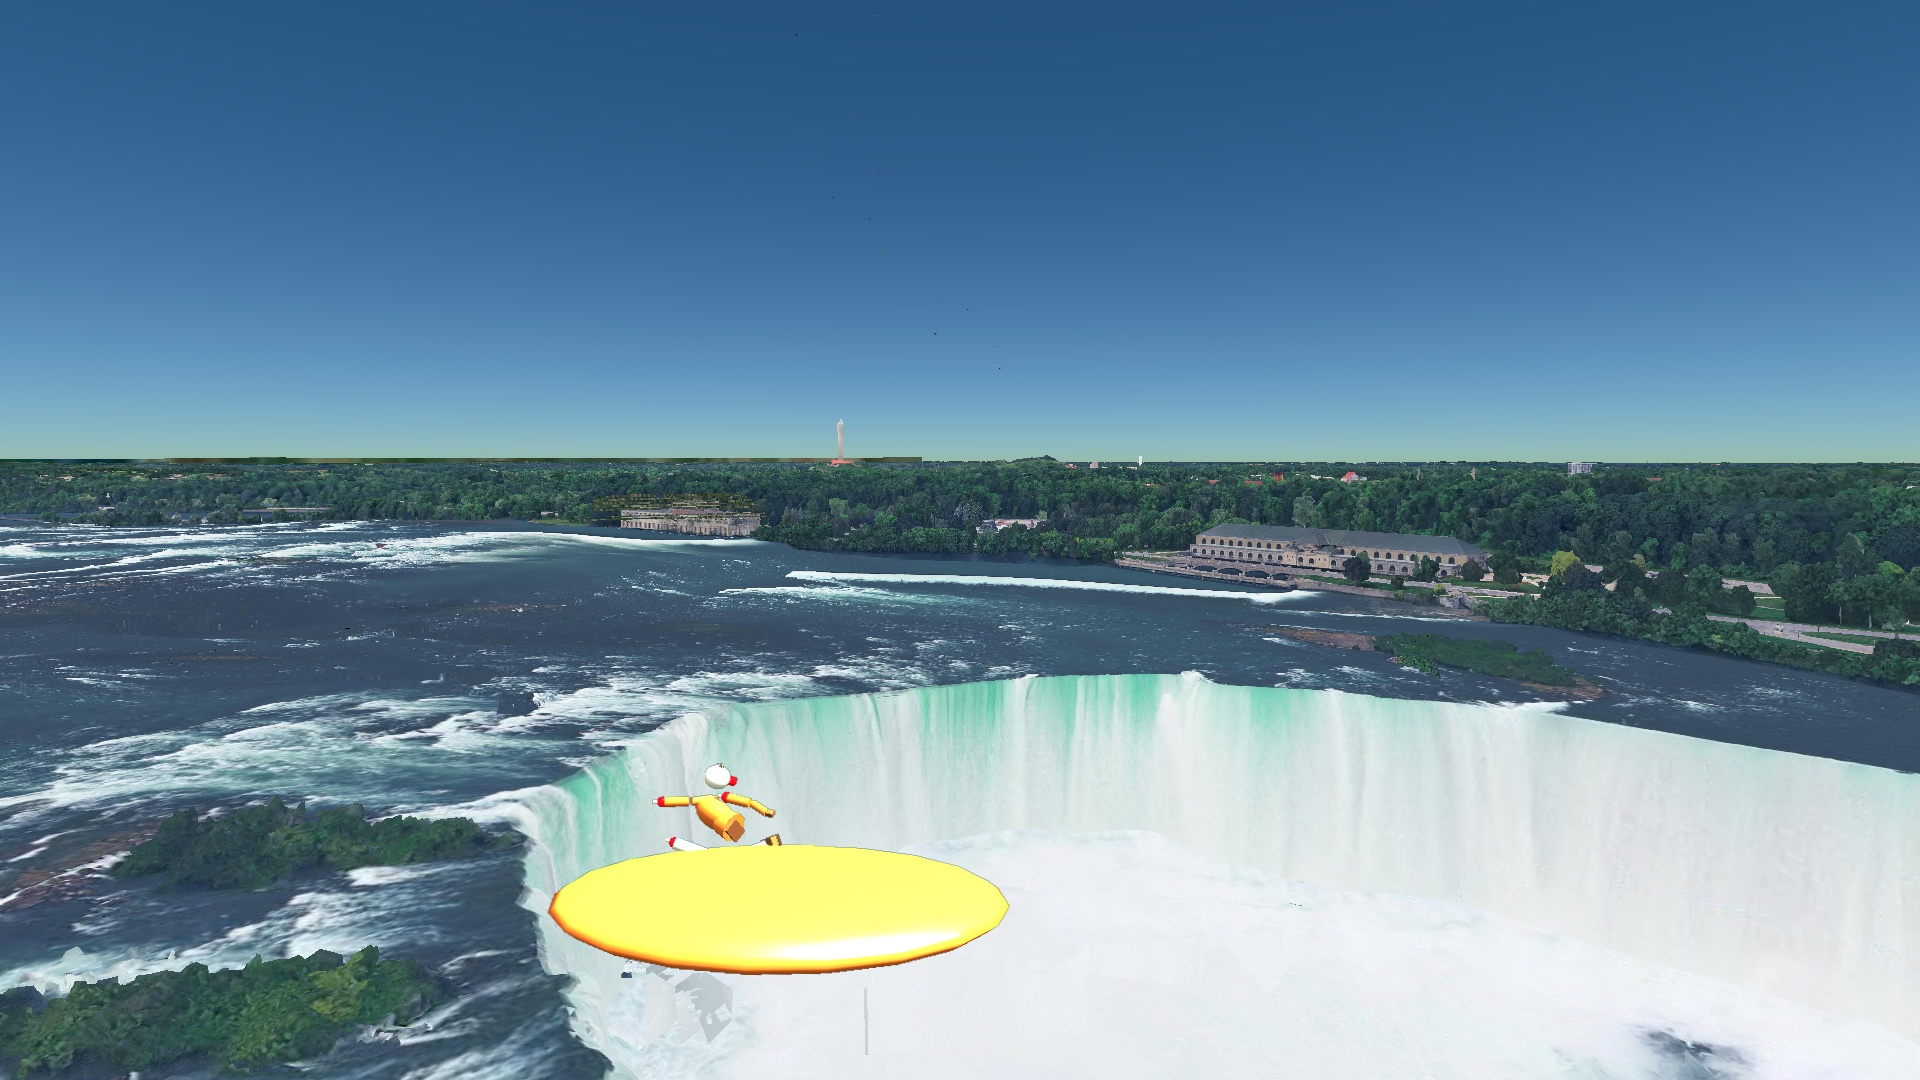
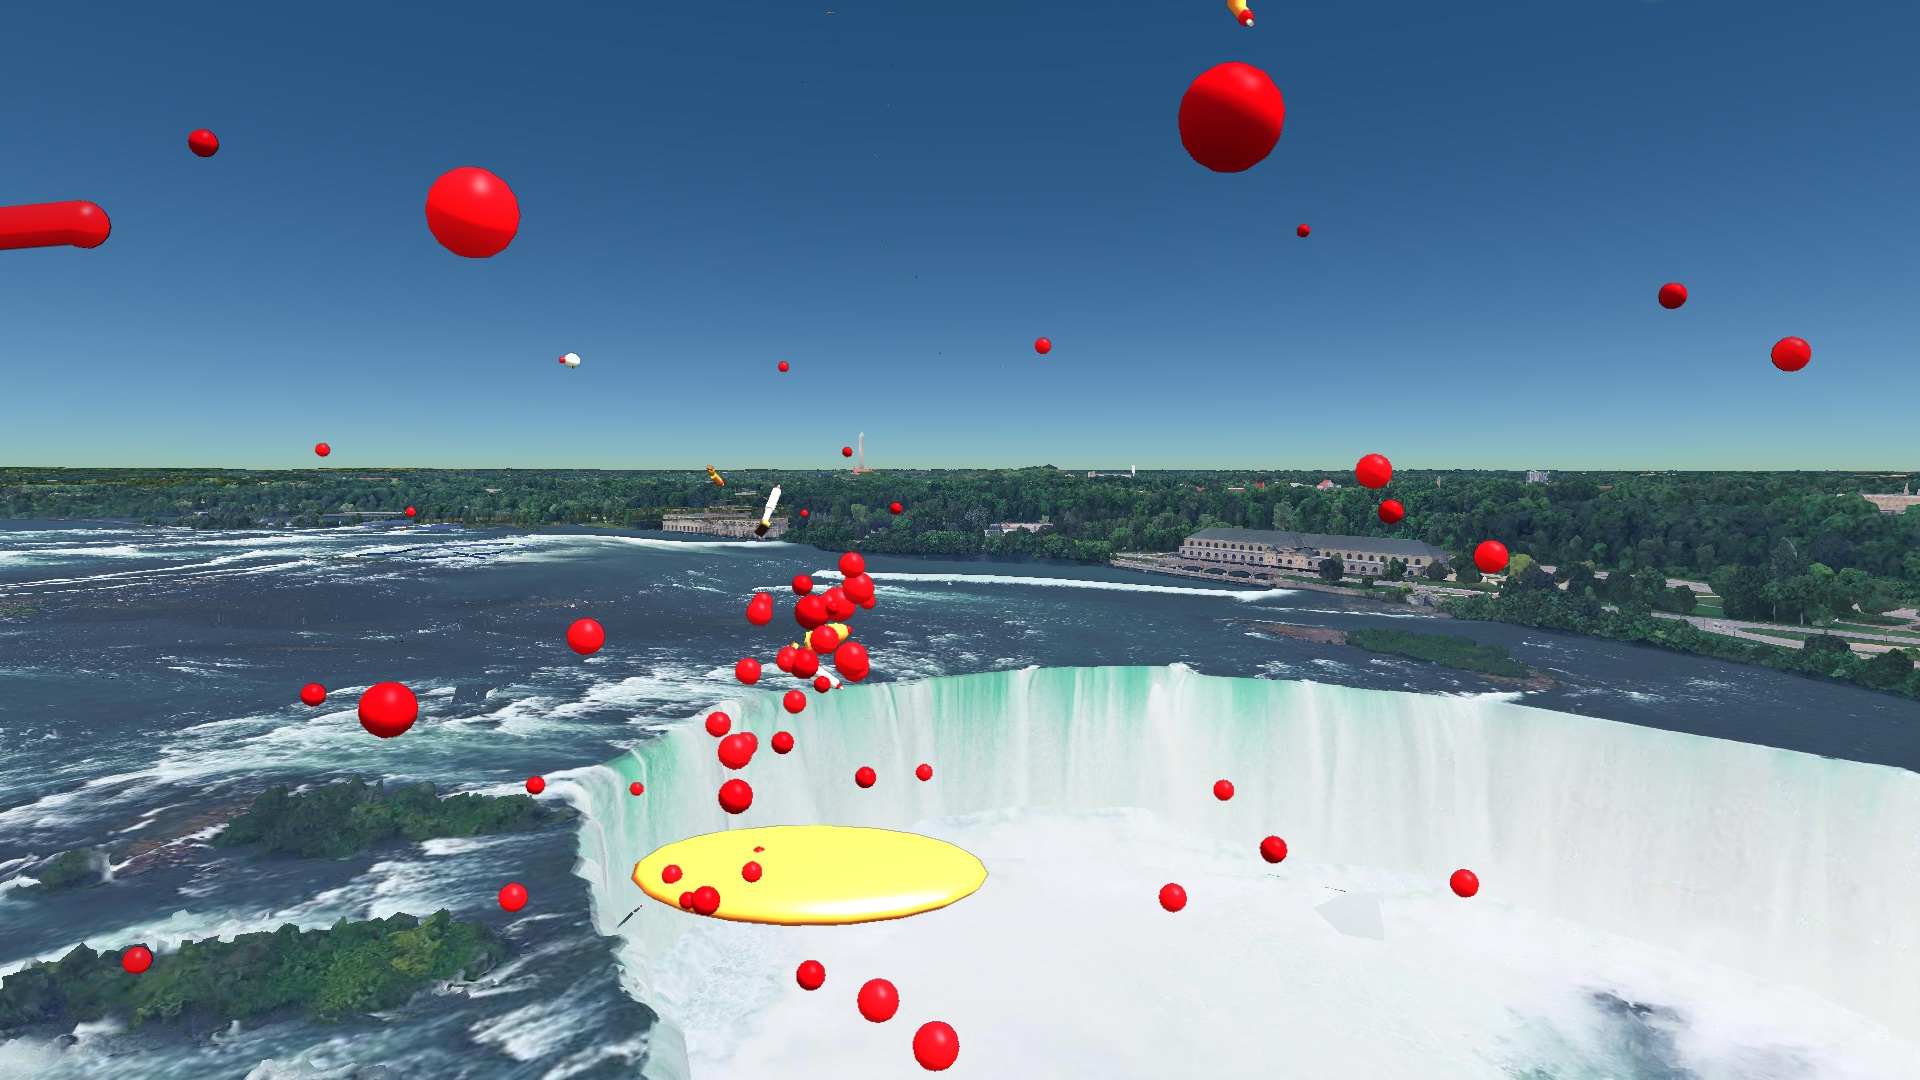
docs: show the blood spray in the crash screenshots

diff --git a/README.md b/README.md
@@ -65,7 +65,7 @@ Completed landmarks by Bjarke Ingels Group. A few were designed with another stu
 
 ## 💥 Crashes
 
-In-game wipeouts. The wing collapses and the pilot tumbles.
+In-game wipeouts. The wing collapses, the body comes apart, and the blood stays in the air.
 
 | Hoover Dam | Golden Gate Bridge |
 |:---:|:---:|
